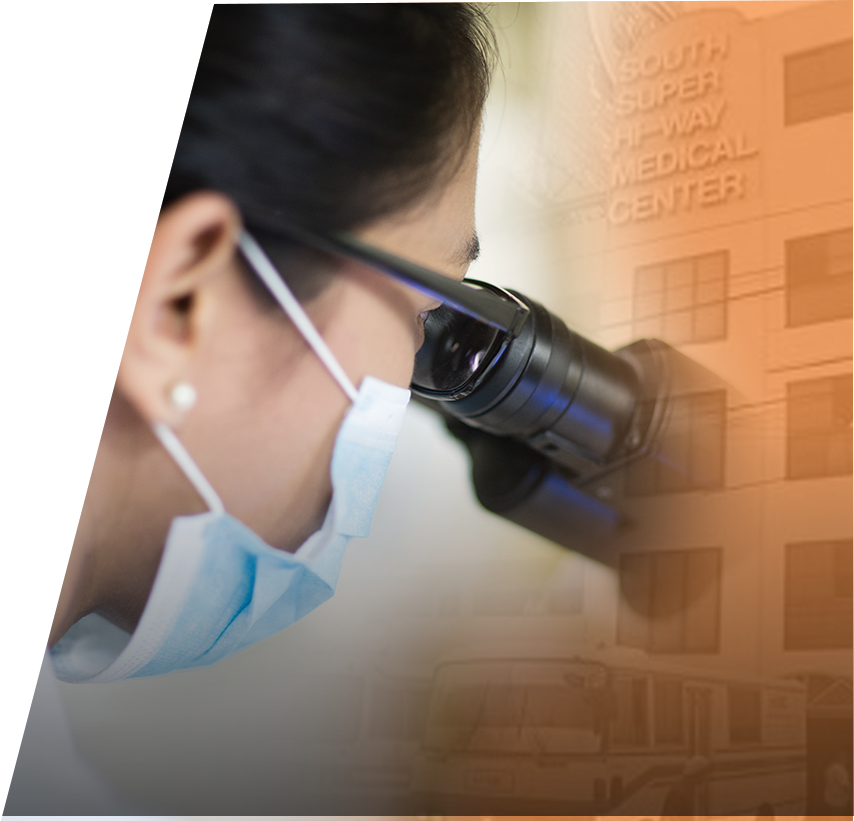
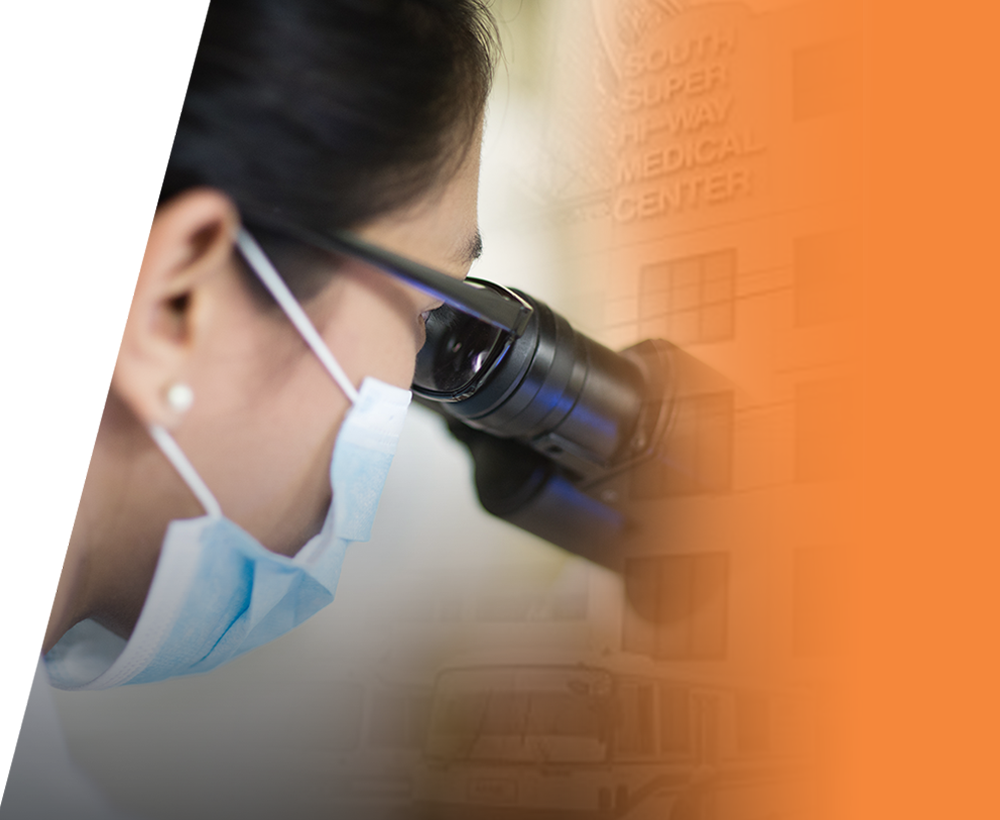
[UI Update] Adjust landing page

diff --git a/WebContent/assets/sass/main.css b/WebContent/assets/sass/main.css
@@ -913,15 +913,6 @@ html.ismobile .welcome .welcome-carousel {
   bottom: 80px;
   margin-right: -130px;
   text-align: center; }
-  .landing .landing-content > div {
-    background: rgba(74, 144, 226, 0.85);
-    padding: 10px;
-    margin: -10px;
-    display: block;
-    border-radius: 10px;
-    box-shadow: 0px 0px 0px 8px rgba(255, 255, 255, 0.3); }
-    .landing .landing-content > div h2 {
-      margin-top: 5px; }
   .landing .landing-content img {
     display: block;
     margin: 0px auto 25px;
@@ -937,7 +928,7 @@ html.ismobile .welcome .welcome-carousel {
   -webkit-transform: skew(-14deg);
   -moz-transform: skew(-14deg);
   -o-transform: skew(-14deg);
-  background: red;
+  background: #4a90e2;
   overflow: hidden;
   position: relative;
   display: block;
@@ -945,7 +936,8 @@ html.ismobile .welcome .welcome-carousel {
   margin-left: -7%; }
   .landing #hospitals .image {
     background: url(../../assets/img/landing1.png) no-repeat;
-    background-size: cover;
+    background-size: auto 100%;
+    background-position: right top;
     position: absolute;
     top: 0px;
     left: 0px;
@@ -961,7 +953,7 @@ html.ismobile .welcome .welcome-carousel {
   -webkit-transform: skew(-14deg);
   -moz-transform: skew(-14deg);
   -o-transform: skew(-14deg);
-  background: red;
+  background: #f5873b;
   overflow: hidden;
   position: relative;
   display: block;
@@ -970,9 +962,12 @@ html.ismobile .welcome .welcome-carousel {
   .landing #clinics .image {
     background: url(../../assets/img/landing2.png) no-repeat;
     background-size: cover;
+    background-size: auto 100%;
+    background-position: left top;
+    position: absolute;
     position: absolute;
     top: -8px;
-    left: -24%;
+    left: -15%;
     right: 0px;
     bottom: 0px;
     -webkit-transform: skew(14deg);
@@ -981,8 +976,6 @@ html.ismobile .welcome .welcome-carousel {
   .landing #clinics .landing-content {
     left: 50%;
     margin-left: -130px; }
-    .landing #clinics .landing-content > div {
-      background: rgba(245, 135, 59, 0.85); }
 
 .logo-anim {
   animation: logoFade 6200ms infinite ease-in-out; }

diff --git a/WebContent/assets/sass/4-pages/landing.sass b/WebContent/assets/sass/4-pages/landing.sass
@@ -61,13 +61,13 @@
     margin-right: -130px
     text-align: center
 
-    > div
-      background: rgba(74, 144, 226, 0.85)
-      padding: 10px
-      margin: -10px
-      display: block
-      border-radius: 10px
-      box-shadow: 0px 0px 0px 8px rgba(255, 255, 255, 0.3)
+    // > div
+    //   background: rgba(74, 144, 226, 0.85)
+    //   padding: 10px
+    //   margin: -10px
+    //   display: block
+    //   border-radius: 10px
+    //   box-shadow: 0px 0px 0px 8px rgba(255, 255, 255, 0.3)
 
       h2
         margin-top: 5px
@@ -89,7 +89,7 @@
     -webkit-transform: skew(-14deg)
     -moz-transform: skew(-14deg)
     -o-transform: skew(-14deg)
-    background: red
+    background: #4a90e2
     overflow: hidden
     position: relative
     display: block
@@ -98,7 +98,8 @@
 
     .image
       background: url(../../assets/img/landing1.png) no-repeat
-      background-size: cover
+      background-size: auto 100%
+      background-position: right top
       position: absolute
       top: 0px
       left: 0px
@@ -116,7 +117,7 @@
     -webkit-transform: skew(-14deg)
     -moz-transform: skew(-14deg)
     -o-transform: skew(-14deg)
-    background: red
+    background: #f5873b
     overflow: hidden
     position: relative
     display: block
@@ -126,9 +127,12 @@
     .image
       background: url(../../assets/img/landing2.png) no-repeat
       background-size: cover
+      background-size: auto 100%
+      background-position: left top
+      position: absolute
       position: absolute
       top: -8px
-      left: -24%
+      left: -15%
       right: 0px
       bottom: 0px
       -webkit-transform: skew(14deg)
@@ -139,8 +143,8 @@
       left: 50%
       margin-left: -130px
 
-      > div
-        background: rgba(245, 135, 59, 0.85)
+      // > div
+      //   background: rgba(245, 135, 59, 0.85)
 
 .logo-anim
   animation: logoFade 6200ms infinite ease-in-out
